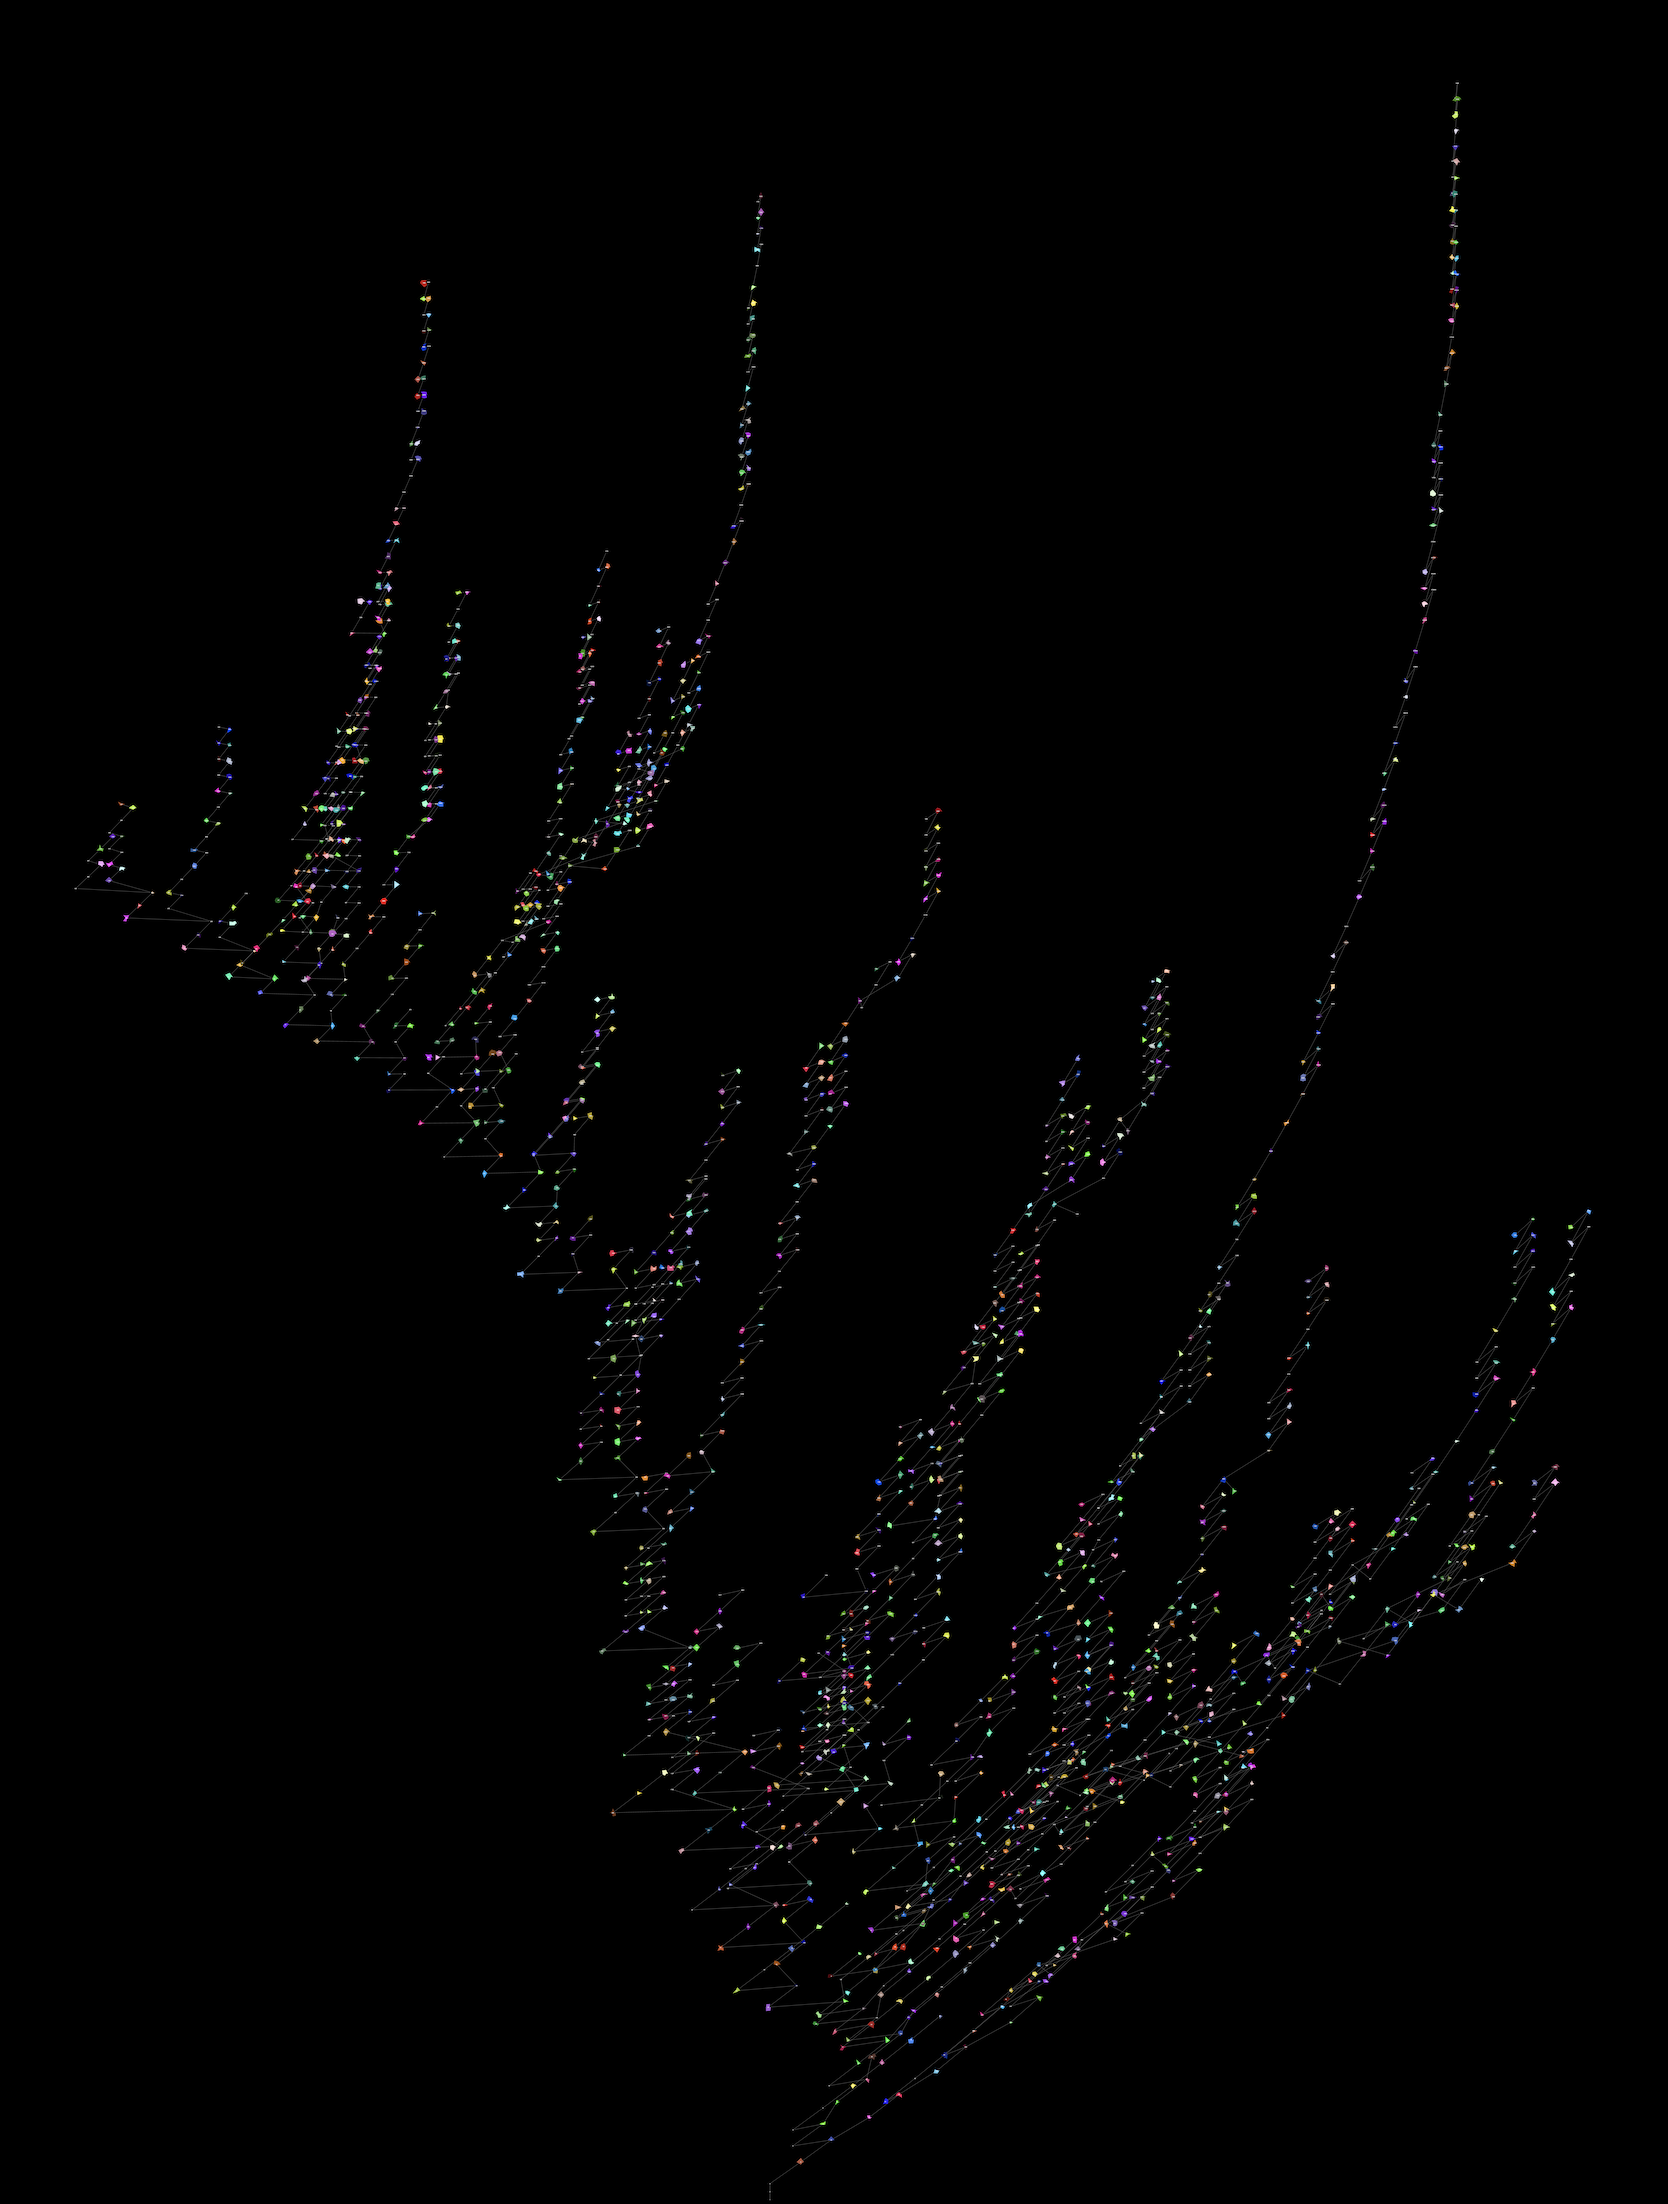
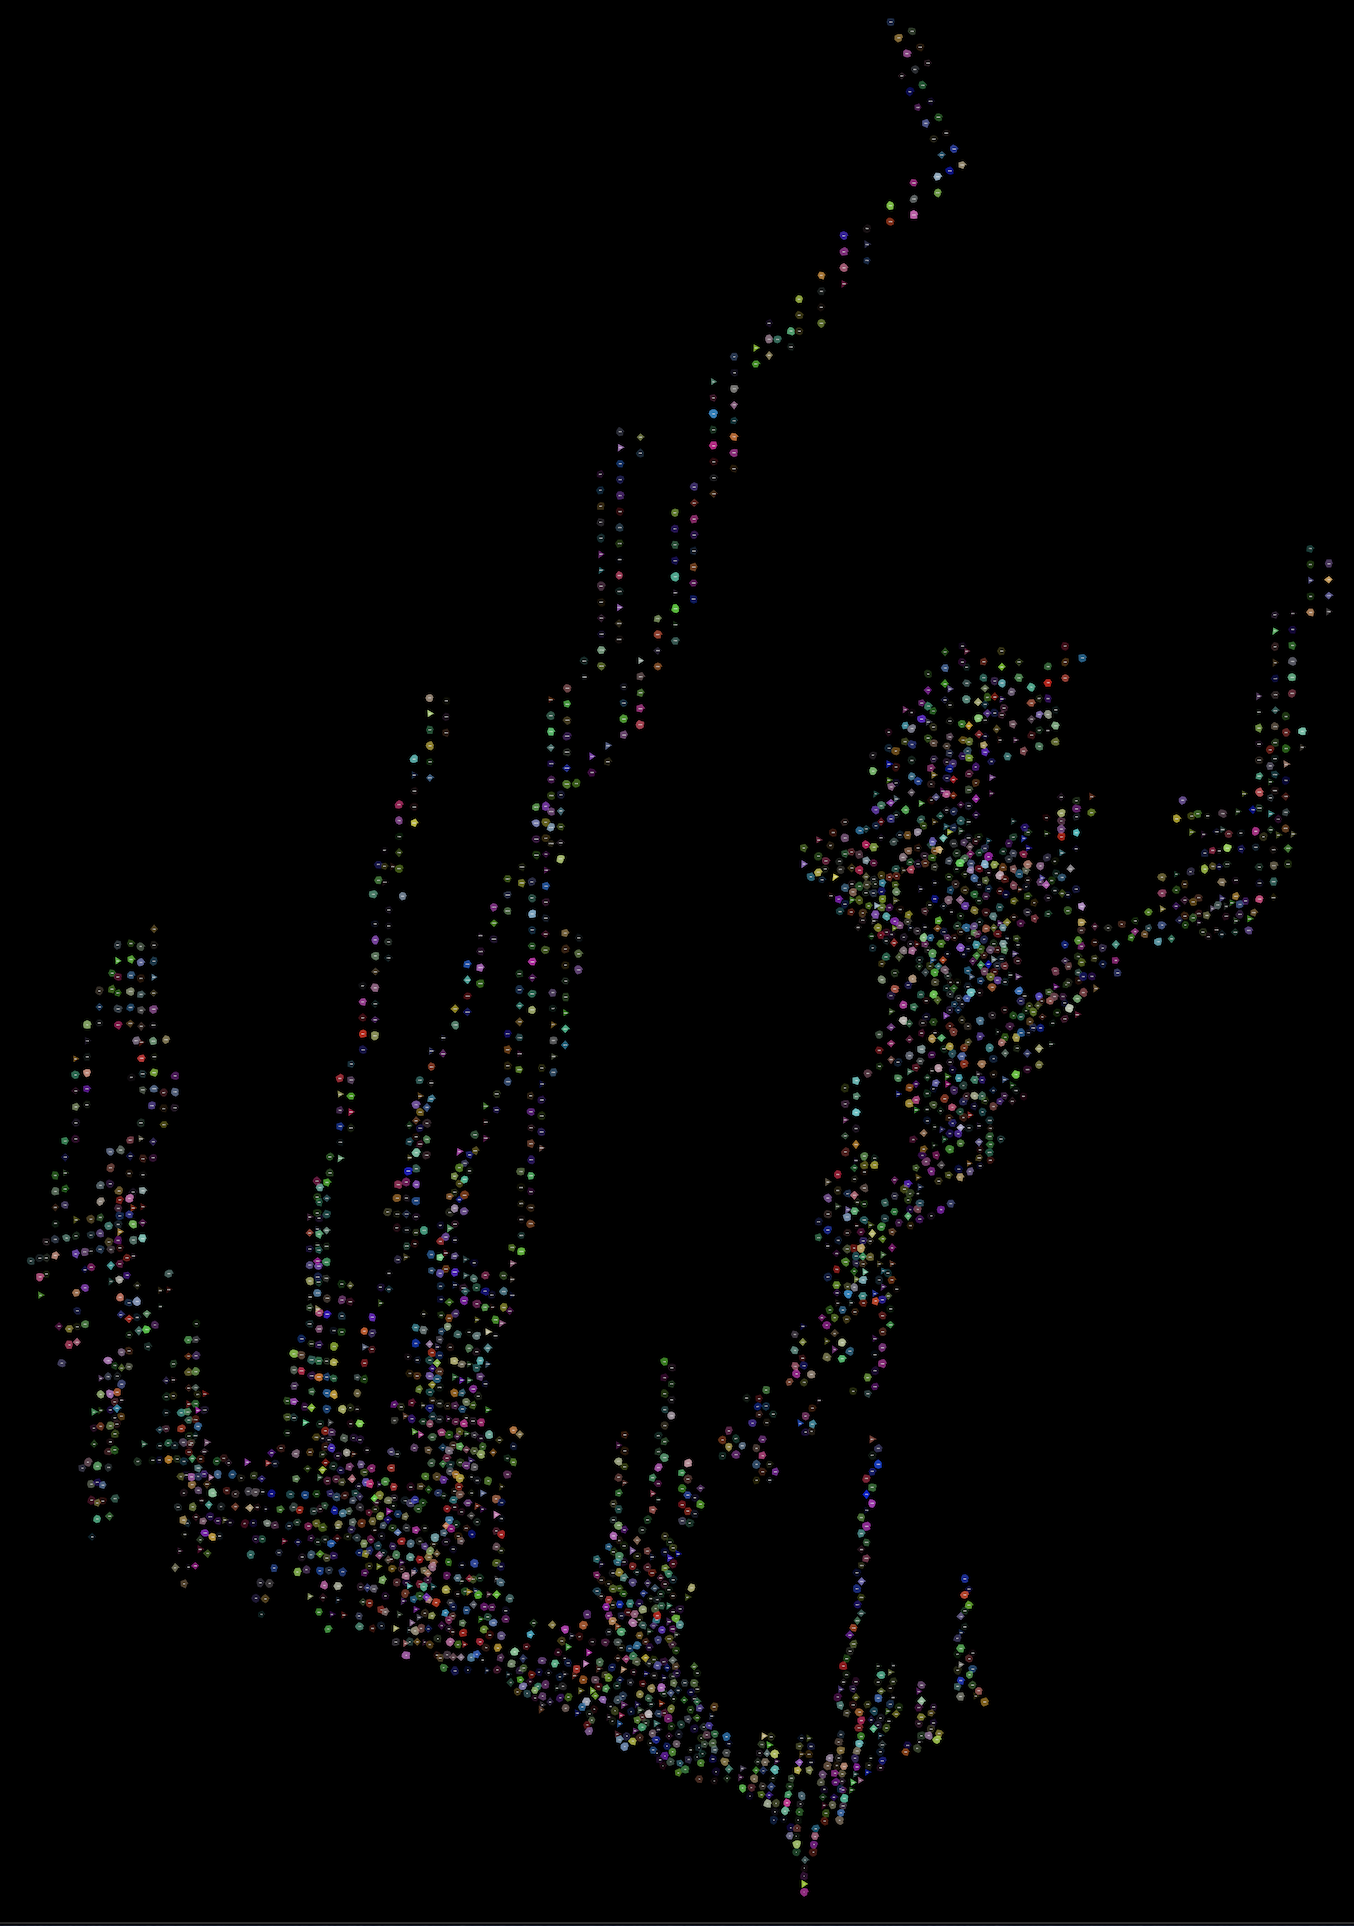
improve 2D node positioning, update example images

diff --git a/ThreeXPlusOne/Code/Graph/TwoDimensionalDirectedGraph.cs b/ThreeXPlusOne/Code/Graph/TwoDimensionalDirectedGraph.cs
@@ -1,4 +1,5 @@
-using Microsoft.Extensions.Options;
+using System.ComponentModel;
+using Microsoft.Extensions.Options;
 using SkiaSharp;
 using ThreeXPlusOne.Code.Interfaces;
 using ThreeXPlusOne.Config;
@@ -88,14 +89,18 @@ public class TwoDimensionalDirectedGraph(IOptions<Settings> settings,
 
                     if (allNodesAtDepth % 2 == 0)
                     {
-                        addedWidth = positionedNodesAtDepth == 0 ? 0 : positionedNodesAtDepth + 1;
+                        addedWidth = positionedNodesAtDepth == 0
+                                                            ? 0
+                                                            : positionedNodesAtDepth + 1;
                     }
                     else
                     {
-                        addedWidth = positionedNodesAtDepth == 0 ? 0 : positionedNodesAtDepth;
+                        addedWidth = positionedNodesAtDepth == 0
+                                                            ? 0
+                                                            : positionedNodesAtDepth;
                     }
 
-                    xOffset = (xOffset - ((allNodesAtDepth / 2) * _settings.XNodeSpacer)) + (_settings.XNodeSpacer * addedWidth);
+                    xOffset = xOffset - (allNodesAtDepth / 2 * _settings.XNodeSpacer) + (_settings.XNodeSpacer * addedWidth);
                 }
             }
 
@@ -117,6 +122,24 @@ public class TwoDimensionalDirectedGraph(IOptions<Settings> settings,
                 }
 
                 node.Position = new SKPoint((float)rotatedPosition.x, (float)rotatedPosition.y);
+            }
+
+            float signedXAxisDistanceFromParent = XAxisSignedDistanceFromParent(node.Position, node.Parent.Position);
+            float absoluteXAxisDistanceFromParent = Math.Abs(signedXAxisDistanceFromParent);
+
+            //limit the x-axis distance between node and parent, because the distance calculated above based on allNodesAtDepth can push
+            //parents and children too far away from each other on the x-axis
+            if (absoluteXAxisDistanceFromParent > _settings.XNodeSpacer * 3)
+            {
+                //if the child node is to the left of the parent
+                if (signedXAxisDistanceFromParent < 0)
+                {
+                    node.Position = new SKPoint((float)node.Position.X + ((absoluteXAxisDistanceFromParent / 3) - _settings.XNodeSpacer), node.Position.Y);
+                }
+                else
+                {
+                    node.Position = new SKPoint((float)node.Position.X - ((absoluteXAxisDistanceFromParent / 3) + _settings.XNodeSpacer), node.Position.Y);
+                }
             }
 
             float minDistance = _settings.NodeRadius * 2;

diff --git a/ThreeXPlusOne/Code/Graph/DirectedGraph.cs b/ThreeXPlusOne/Code/Graph/DirectedGraph.cs
@@ -193,6 +193,22 @@ public abstract class DirectedGraph(IOptions<Settings> settings,
     }
 
     /// <summary>
+    /// Calculate the Euclidean distance between two nodes
+    /// </summary>
+    /// <param name="point1"></param>
+    /// <param name="point2"></param>
+    /// <returns></returns>
+    protected static float Distance(SKPoint point1, SKPoint point2)
+    {
+        return (float)Math.Sqrt(Math.Pow(point2.X - point1.X, 2) + Math.Pow(point2.Y - point1.Y, 2));
+    }
+
+    protected static float XAxisSignedDistanceFromParent(SKPoint child, SKPoint parent)
+    {
+        return child.X - parent.X;
+    }
+
+    /// <summary>
     /// Retrieve the cell in the grid object in which the node is positioned
     /// </summary>
     /// <param name="node"></param>
@@ -201,17 +217,6 @@ public abstract class DirectedGraph(IOptions<Settings> settings,
     private static (int, int) GetGridCellForNode(DirectedGraphNode node, float cellSize)
     {
         return ((int)(node.Position.X / cellSize), (int)(node.Position.Y / cellSize));
-    }
-
-    /// <summary>
-    /// Calculate the Euclidean distance between two nodes
-    /// </summary>
-    /// <param name="point1"></param>
-    /// <param name="point2"></param>
-    /// <returns></returns>
-    private static float Distance(SKPoint point1, SKPoint point2)
-    {
-        return (float)Math.Sqrt(Math.Pow(point2.X - point1.X, 2) + Math.Pow(point2.Y - point1.Y, 2));
     }
 
     /// <summary>
@@ -248,7 +253,7 @@ public abstract class DirectedGraph(IOptions<Settings> settings,
         _canvasWidth = (int)maxX + 500;
         _canvasHeight = (int)maxY + 500;
 
-        _consoleHelper.WriteLine($"Set canvas size to {_canvasWidth}w x {_canvasHeight}h (in pixels)\n");
+        _consoleHelper.WriteLine($"Canvas dimensions set to {_canvasWidth}w x {_canvasHeight}h (in pixels)\n");
     }
 
     /// <summary>
